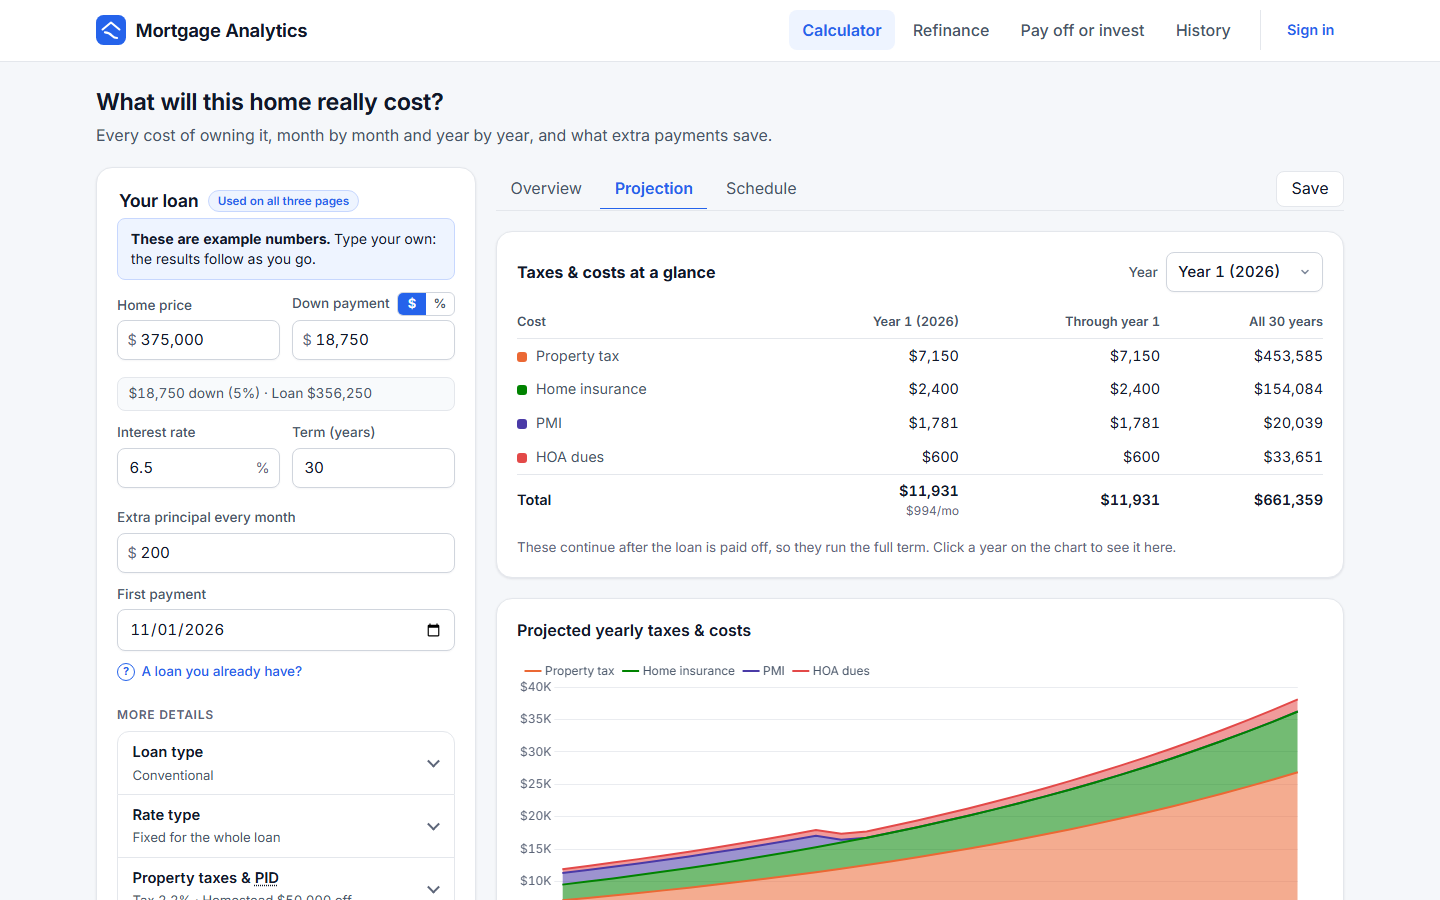
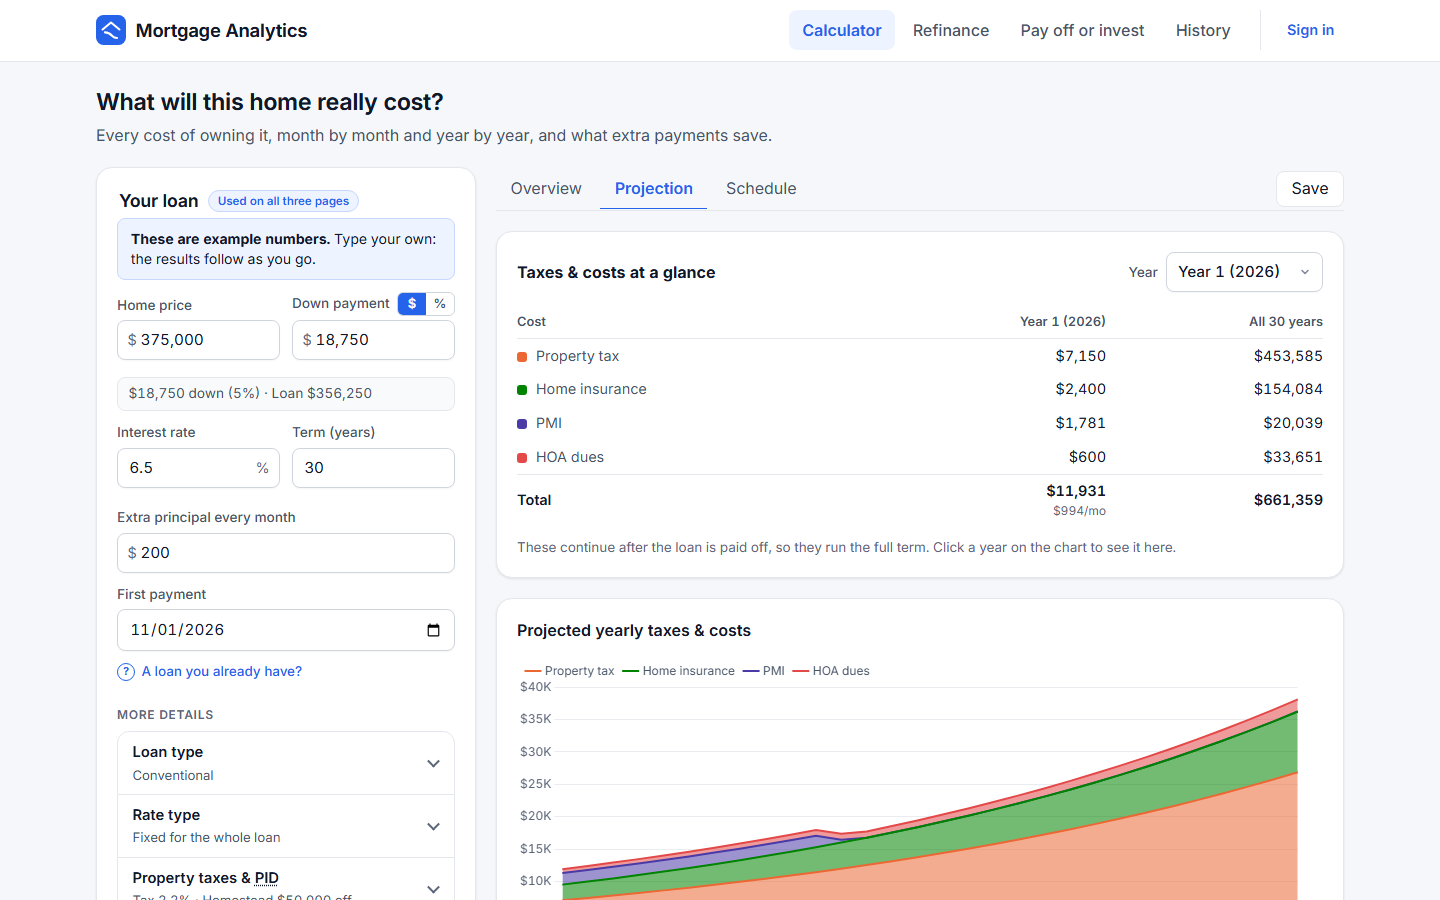
What asking at 80% would do for PMI; a taller schedule; no repeated column
PMI removed automatically comes off at 78% on the original schedule, whatever is paid
extra (the Homeowners Protection Act), so with extra payments the schedule went on
charging PMI long after the balance was below 80%. That is right, but it looked wrong,
and nothing said what to do about it. When removal is automatic, the PMI tile now says
what asking the lender at 80% would do: "Ask your lender at 80%: ends Dec 2033, saving
$7,274" on the example. Even without extra payments it ends sooner (80% before 78%).

The API runs the extra-payment schedule once more with removal on request
(PmiOnRequest in the response), the independent model does the same, and 300 of 300
purchases agree.

- The schedule table is as tall as the window allows on a wide screen, beside the
  form that now runs the page's length; 420px on a phone, as before.
- "Taxes & costs at a glance" leaves out "Through year 1" for year 1, where it only
  repeated the year.

Changed region(s): [[0.7188, 0.3422, 0.8125, 0.5911], [0.625, 0.4667, 0.6562, 0.5911], [0.5938, 0.3422, 0.6562, 0.4356]]

diff --git a/client/src/app/features/calculator/cost-projection/cost-totals.component.ts b/client/src/app/features/calculator/cost-projection/cost-totals.component.ts
@@ -32,7 +32,10 @@ import { costTotals, startingYear } from './cost-totals';
             <tr>
               <th scope="col">Cost</th>
               <th scope="col">Year {{ shown() }} ({{ calendarYear(projection()[shown() - 1]) }})</th>
-              <th scope="col">Through year {{ shown() }}</th>
+              <!-- Through year 1 is year 1 again: shown from year 2. -->
+              @if (shown() > 1) {
+                <th scope="col">Through year {{ shown() }}</th>
+              }
               <th scope="col">All {{ projection().length }} years</th>
             </tr>
           </thead>
@@ -41,7 +44,9 @@ import { costTotals, startingYear } from './cost-totals';
               <tr>
                 <th scope="row"><i [style.background]="'var(' + row.color + ')'"></i>{{ row.label }}</th>
                 <td>{{ money(row.thisYear) }}</td>
-                <td>{{ money(row.toDate) }}</td>
+                @if (shown() > 1) {
+                  <td>{{ money(row.toDate) }}</td>
+                }
                 <td>{{ money(row.wholeLoan) }}</td>
               </tr>
             }
@@ -50,7 +55,9 @@ import { costTotals, startingYear } from './cost-totals';
             <tr data-testid="cost-totals-total">
               <th scope="row">Total</th>
               <td>{{ money(t.total.thisYear) }} <small>{{ money(t.total.monthly) }}/mo</small></td>
-              <td>{{ money(t.total.toDate) }}</td>
+              @if (shown() > 1) {
+                <td>{{ money(t.total.toDate) }}</td>
+              }
               <td>{{ money(t.total.wholeLoan) }}</td>
             </tr>
           </tfoot>

diff --git a/client/e2e/calculator.spec.ts b/client/e2e/calculator.spec.ts
@@ -268,6 +268,7 @@ test.describe('Mortgage calculator', () => {
     await expect(calculator.pmiEnd, 'requested removal uses the actual balance: payment 62').toHaveText('Feb 2041');
     await expect(calculator.message('instead of Apr 2046'), 'instead of payment 124').toBeVisible();
     await expect(calculator.savingsDetail, 'the PMI saved is part of net savings').toContainText('+ $6,136 PMI');
+    await expect(calculator.pmiOnRequest, 'removal is already requested: nothing to suggest').toBeHidden();
   });
 
   test('automatic PMI removal follows the original schedule, so extra payments do not move it', async ({ calculator }) => {
@@ -280,6 +281,8 @@ test.describe('Mortgage calculator', () => {
 
     await expect(calculator.pmiEnd, 'automatic removal stays at payment 135').toHaveText('Mar 2047');
     await expect(calculator.savingsDetail, 'so no PMI is saved: the savings are all interest, which the headline already says').toBeHidden();
+    await expect(calculator.pmiOnRequest, 'but asking at 80% would end it at payment 62, saving $13,359.60 - $6,135.52')
+      .toHaveText('Ask your lender at 80%: ends Feb 2041, saving $7,224');
   });
 
   test('applies the Texas school homestead exemption only to a homestead', async ({ calculator }) => {

diff --git a/client/src/app/features/calculator/savings-summary/savings-summary.component.spec.ts b/client/src/app/features/calculator/savings-summary/savings-summary.component.spec.ts
@@ -266,4 +266,25 @@ describe('SavingsSummaryComponent', () => {
     expect(recasts).toContain('($250 fee)');
     expect(recasts?.match(/fee/g)).toHaveLength(1);
   });
+
+  describe('PMI removed on request', () => {
+    const withPmi = (pmiOnRequest: AmortizationResponse['pmiOnRequest']) => aResponse({
+      baseline: aSchedule({ mortgageInsuranceEndDate: '2038-01-01' }),
+      accelerated: aSchedule({ mortgageInsuranceEndDate: '2038-01-01' }),
+      pmiOnRequest,
+    });
+
+    it('says when asking the lender at 80% would end PMI, and what it saves, since extra payments do not move automatic removal', () => {
+      render(withPmi({ endDate: '2033-12-01', saved: 4_947.98 }));
+
+      expect(text('pmi-on-request')).toBe('Ask your lender at 80%: ends Dec 2033, saving $4,948');
+    });
+
+    it('says nothing when asking would not end it sooner', () => {
+      render(withPmi(null));
+
+      expect(text('pmi-on-request')).toBeUndefined();
+    });
+  });
 });
+

diff --git a/client/e2e/calculator.page.ts b/client/e2e/calculator.page.ts
@@ -29,6 +29,8 @@ export class CalculatorPage {
   readonly staleResults: Locator;
   readonly payoffDate: Locator;
   readonly pmiEnd: Locator;
+  /** What asking the lender to remove PMI at 80% would do, when removal is automatic. */
+  readonly pmiOnRequest: Locator;
   readonly recasts: Locator;
   readonly breakdown: Locator;
   readonly breakdownTotal: Locator;
@@ -62,6 +64,7 @@ export class CalculatorPage {
     this.staleResults = page.getByTestId('stale-results');
     this.payoffDate = page.getByTestId('payoff-date');
     this.pmiEnd = page.getByTestId('pmi-end');
+    this.pmiOnRequest = page.getByTestId('pmi-on-request');
     this.recasts = page.getByTestId('recasts');
     this.breakdown = page.getByTestId('payment-breakdown');
     this.breakdownTotal = page.getByTestId('breakdown-total');

diff --git a/client/src/app/features/calculator/schedule-table/schedule-table.component.scss b/client/src/app/features/calculator/schedule-table/schedule-table.component.scss
@@ -142,8 +142,10 @@ h2 {
   }
 }
 
+// As tall as the window allows on a wide screen, so the schedule uses the room beside the long form (at least the
+// 420px it has on a phone, where a taller box would trap the page's own scrolling).
 .table-wrap {
-  max-height: 420px;
+  max-height: max(420px, calc(100vh - 14rem));
   overflow: auto;
   border: 1px solid var(--border);
   border-radius: 10px;
@@ -264,6 +266,10 @@ tbody tr:nth-child(even) .pinned {
 
 // On small screens, a fade at the right edge hints that the table scrolls sideways.
 @media (max-width: 860px) {
+  .table-wrap {
+    max-height: 420px;
+  }
+
   .table-frame::after {
     content: '';
     position: absolute;

diff --git a/client/src/app/features/calculator/savings-summary/savings-summary.component.ts b/client/src/app/features/calculator/savings-summary/savings-summary.component.ts
@@ -81,6 +81,10 @@ const TAXES: readonly [keyof HousingCosts, string][] = [
           } @else {
             <dd class="note">{{ r.purchase.downPaymentPercent }}% down</dd>
           }
+          <!-- Automatic removal keeps to the original schedule, whatever is paid extra; asking at 80% does not. -->
+          @if (r.pmiOnRequest; as asked) {
+            <dd class="note ask" data-testid="pmi-on-request">Ask your lender at 80%: ends {{ asked.endDate | date: 'MMM yyyy' }}, saving {{ asked.saved | currency: 'USD' : 'symbol' : '1.0-0' }}</dd>
+          }
         </div>
       }
     </dl>

diff --git a/client/src/app/features/calculator/cost-projection/cost-totals.component.spec.ts b/client/src/app/features/calculator/cost-projection/cost-totals.component.spec.ts
@@ -35,6 +35,15 @@ describe('CostTotalsComponent', () => {
     ]);
   });
 
+  it('leaves out "through year 1" for year 1, where it would only repeat the year', () => {
+    expect(cells(render(1))).toEqual([
+      ['Cost', 'Year 1 (2026)', 'All 3 years'],
+      ['Property tax', '$6,000', '$18,900'],
+      ['Home insurance', '$2,400', '$7,500'],
+      ['Total', '$8,400 $700/mo', '$26,400'],
+    ]);
+  });
+
   it('starts at year 1 for a loan not started yet', () => {
     jest.useFakeTimers({ now: new Date('2025-06-01') });
 

diff --git a/client/src/app/core/models/amortization.models.ts b/client/src/app/core/models/amortization.models.ts
@@ -376,6 +376,8 @@ export interface AmortizationResponse {
   discountPoints?: DiscountPointsSummary | null;
   /** Null for a conventional loan. */
   program?: LoanProgramSummary | null;
+  /** When PMI is removed automatically: when asking the lender at 80% would end it, and what that saves. Null unless sooner. */
+  pmiOnRequest?: { endDate: string; saved: number } | null;
 }
 
 export interface BuydownSummary {

diff --git a/client/src/app/features/calculator/savings-summary/savings-summary.component.scss b/client/src/app/features/calculator/savings-summary/savings-summary.component.scss
@@ -61,6 +61,12 @@
     font-weight: 500;
   }
 
+  // A way to save more: said in the accent colour, like a link to an action.
+  dd.ask {
+    color: var(--accent-text);
+    font-weight: 500;
+  }
+
   // Time saved is good news, said in green, without lifting the whole tile above the headline.
   dd.gain {
     color: var(--positive);

diff --git a/tests/MortgageAnalytics.Application.Tests/Services/AnalysisScenarioTests.cs b/tests/MortgageAnalytics.Application.Tests/Services/AnalysisScenarioTests.cs
@@ -156,6 +156,50 @@ public class AnalysisScenarioTests : SociableAnalysisTestBase
     }
 
     [Test]
+    public void AutomaticPmiRemoval_WithExtraPayments_SaysWhenAskingAt80PercentWouldEndIt_AndWhatThatSaves()
+    {
+        var request = A.Request.FivePercentDown().WithMonthlyExtra(300m).WithHousingCosts(c => c.WithPmi(FivePercentDown.PmiRate));
+
+        var onRequest = Service.Analyze(request).PmiOnRequest;
+
+        Assert.Multiple(() =>
+        {
+            Assert.That(onRequest?.EndDate, Is.EqualTo(new DateOnly(2031, 2, 1)), "payment 62: the actual balance reaches 80% years before the schedule's 78%");
+            Assert.That(onRequest?.Saved, Is.EqualTo(FivePercentDown.PmiTotal - FivePercentDown.BorrowerRequestedPmiTotalWith300Extra),
+                "the PMI charged after that, which automatic removal keeps charging until March 2037");
+        });
+    }
+
+    [Test]
+    public void AutomaticPmiRemoval_WithoutExtraPayments_StillEndsSoonerOnRequest_At80PercentInsteadOf78()
+    {
+        var request = A.Request.FivePercentDown().WithHousingCosts(c => c.WithPmi(FivePercentDown.PmiRate));
+
+        var onRequest = Service.Analyze(request).PmiOnRequest;
+
+        Assert.Multiple(() =>
+        {
+            Assert.That(onRequest?.EndDate, Is.EqualTo(new DateOnly(2036, 4, 1)), "payment 124, where the schedule reaches 80%, not 135 at 78%");
+            Assert.That(onRequest?.Saved, Is.EqualTo(FivePercentDown.PmiTotal - FivePercentDown.BorrowerRequestedPmiTotal), "eleven payments of PMI");
+        });
+    }
+
+    [Test]
+    public void PmiOnRequest_IsNotSaid_WhenRemovalIsAlreadyRequested()
+    {
+        var request = A.Request.FivePercentDown().WithMonthlyExtra(300m)
+            .WithHousingCosts(c => c.WithPmi(FivePercentDown.PmiRate, PmiCancellation.BorrowerRequested));
+
+        Assert.That(Service.Analyze(request).PmiOnRequest, Is.Null, "the results already show it");
+    }
+
+    [Test]
+    public void PmiOnRequest_IsNotSaid_WithoutPmi()
+    {
+        Assert.That(Service.Analyze(A.Request.WithMonthlyExtra(300m)).PmiOnRequest, Is.Null, "20% down: there is no PMI to end");
+    }
+
+    [Test]
     public void Pmi_RequestedRemovalEndsSoonerThanAutomatic()
     {
         DateOnly? EndDate(PmiCancellation cancellation) =>

diff --git a/src/MortgageAnalytics.Application/Services/AmortizationService.cs b/src/MortgageAnalytics.Application/Services/AmortizationService.cs
@@ -63,6 +63,30 @@ public sealed class AmortizationService(ILoanComparer comparer, TimeProvider clo
 
         var county = request.Program is { Type: LoanProgramType.Fha, CountyFips: { } fips } ? FhaLoanLimitData.Current.Find(fips) : null;
         var rates = new LoanRates(loan, request.ToBuydown(), worstCase, request.BuydownPaidBy.ToDomain(), points, withoutPoints, program, county);
-        return comparison.ToResponse(purchase, valuation, plan, rates, request.ToClosingCosts());
+        return comparison.ToResponse(purchase, valuation, plan, rates, request.ToClosingCosts()) with
+        {
+            PmiOnRequest = program is null ? PmiOnRequest(request, purchase, valuation, loan, comparison) : null,
+        };
+    }
+
+    /// <summary>
+    /// Automatic PMI removal follows the original schedule, so extra payments never bring it forward; a borrower's
+    /// request at 80% follows the actual balance. When that would end PMI sooner, the same extra payments are run
+    /// once more with the request, to say when and what it saves. Null otherwise.
+    /// </summary>
+    private PmiOnRequestResponse? PmiOnRequest(
+        AmortizationRequest request, PropertyPurchase purchase, PropertyValuation valuation, LoanTerms loan, LoanComparison comparison)
+    {
+        if (request.HousingCosts is not { PmiCancellation: PmiCancellation.Automatic } costs || !purchase.RequiresMortgageInsurance)
+            return null;
+
+        var requested = comparer.Compare(
+            loan, request.ExtraPayments.ToExtraPaymentPlan(), request.ToRecastPolicy(),
+            (costs with { PmiCancellation = PmiCancellation.BorrowerRequested }).ToHousingCostPlan(purchase, valuation));
+        var saved = comparison.AcceleratedCosts.Totals[HousingCostCategory.MortgageInsurance]
+            - requested.AcceleratedCosts.Totals[HousingCostCategory.MortgageInsurance];
+        return saved > 0 && requested.AcceleratedCosts.MortgageInsuranceLastPayment is { } last
+            ? new PmiOnRequestResponse(requested.Accelerated.Payments[last - 1].DueDate, saved)
+            : null;
     }
 }

diff --git a/src/MortgageAnalytics.Application/Contracts/AmortizationResponse.cs b/src/MortgageAnalytics.Application/Contracts/AmortizationResponse.cs
@@ -11,6 +11,10 @@ namespace MortgageAnalytics.Application.Contracts;
 /// <param name="CashToClose">What the buyer brings to closing, line by line. Null when the request has no closing costs.</param>
 /// <param name="DiscountPoints">What discount points are worth against the rate without them. Null without points.</param>
 /// <param name="Program">An FHA or VA loan's upfront fee and mortgage insurance. Null for a conventional loan.</param>
+/// <param name="PmiOnRequest">
+/// When PMI is removed automatically, extra payments don't bring it forward: what asking the lender to remove it at 80%
+/// would do instead. Null unless that would end PMI sooner.
+/// </param>
 public sealed record AmortizationResponse(
     PurchaseResponse Purchase,
     ScheduleResponse Baseline,
@@ -21,7 +25,13 @@ public sealed record AmortizationResponse(
     AdjustableRateResponse? AdjustableRate = null,
     CashToCloseResponse? CashToClose = null,
     DiscountPointsResponse? DiscountPoints = null,
-    LoanProgramResponse? Program = null);
+    LoanProgramResponse? Program = null,
+    PmiOnRequestResponse? PmiOnRequest = null);
+
+/// <summary>PMI removed on the borrower's request at 80% of the home's original value, with the extra payments.</summary>
+/// <param name="EndDate">Due date of the last payment that would include PMI.</param>
+/// <param name="Saved">The PMI that automatic removal would still charge after that.</param>
+public sealed record PmiOnRequestResponse(DateOnly EndDate, decimal Saved);
 
 /// <summary>An FHA or VA loan's upfront fee and mortgage insurance.</summary>
 /// <param name="Type">FHA or VA.</param>
